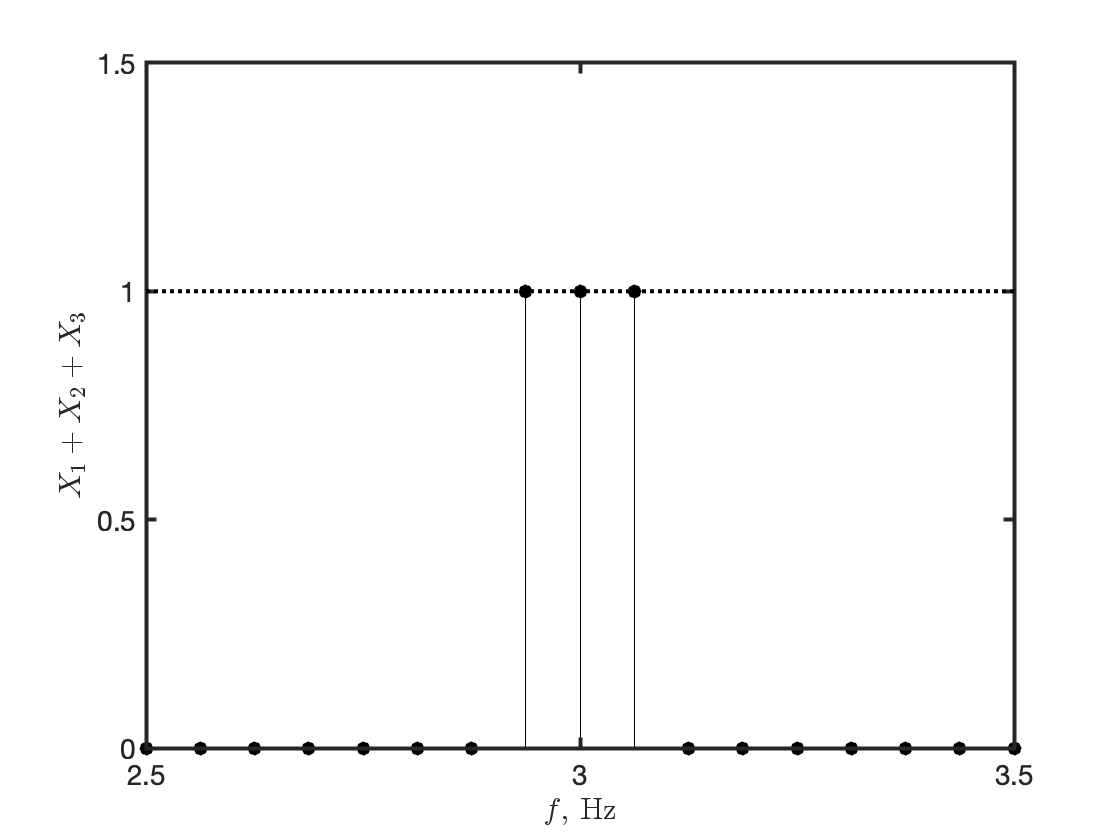
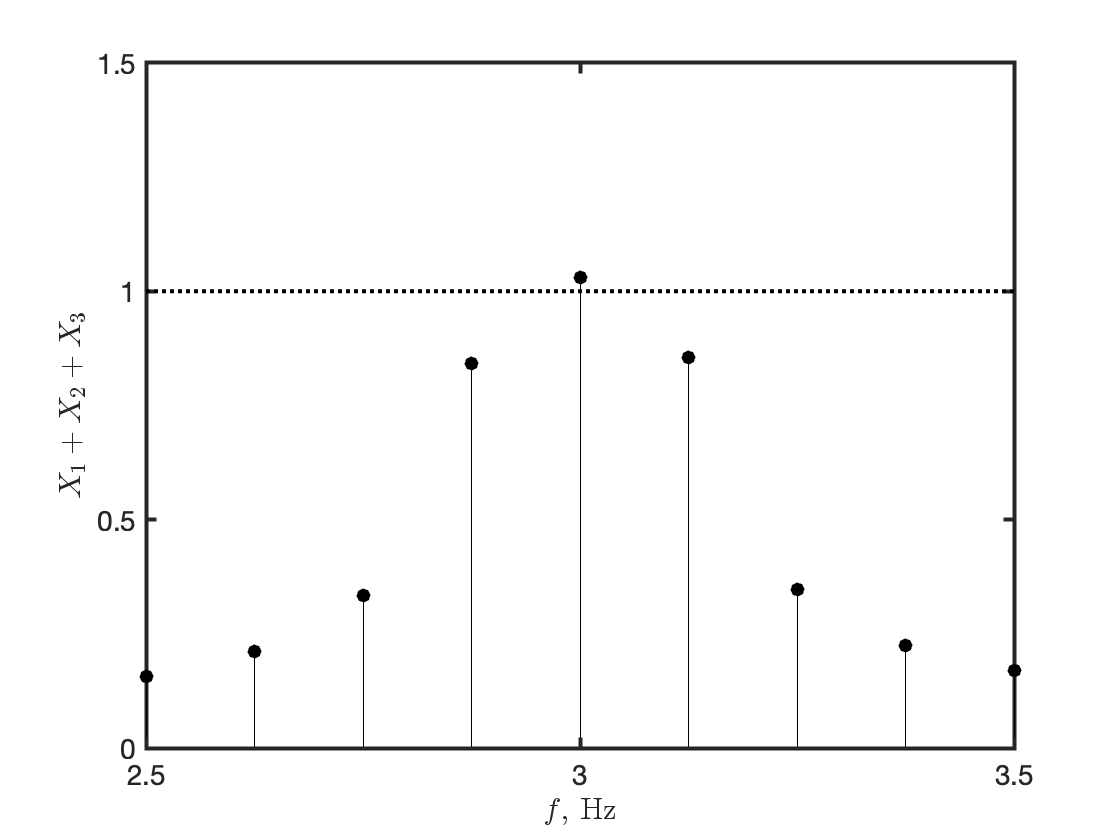
Publish site to docs/

diff --git a/docs/posts/resolution/index.html b/docs/posts/resolution/index.html
@@ -212,17 +212,17 @@ window.Quarto = {
 
 
 
-<p>Frequency resolution is the size of the smallest frequency for which details in the frequency response and the spectrum can be resolved by the estimate. For example, a resolution of 0.1 Hz means that the frequency response variations at frequency intervals at or below 0.1 Hz are not resolved. For any model developed in the course of a data analysis project, frequency resolution sets a limit in the uncertainty in the model estimate.</p>
-<p>Let us suppose to sample an analog band-limited signal <span class="math inline">\(x(t)\)</span> with bandwidth <span class="math inline">\(B\)</span> Hz with a sampling frequency <span class="math inline">\(f_s\)</span> over a total sample period <span class="math inline">\(T_r\)</span> s. Let <span class="math inline">\(T_s=1/f_s\)</span> be the sampling interval.</p>
-<p>The minimum resolvable frequency is:</p>
+<p>Frequency resolution is the size of the smallest frequency for which details in the frequency response and the spectrum can be resolved by the estimate. For example, a resolution of 0.1 Hz means that the frequency response variations at frequency intervals at or below 0.1 Hz cannot be resolved.</p>
+<p>Consider an analog band-limited signal <span class="math inline">\(x(t)\)</span> with bandwidth <span class="math inline">\(B\)</span> Hz; <span class="math inline">\(x(t)\)</span> is observed over a sample period of <span class="math inline">\(T_r\)</span> s and sampled at a sampling frequency of <span class="math inline">\(f_s\)</span> Hz (<span class="math inline">\(T_s=1/f_s\)</span> denotes the sampling interval). The total number of samples of <span class="math inline">\(x(t)\)</span> is then <span class="math inline">\(N=\lfloor T_r/T_s\rfloor\)</span>, where <span class="math inline">\(\lfloor\cdot\rfloor\)</span> denotes the floor function (or greatest integer function), namely the function that takes as input a real number <span class="math inline">\(r\)</span> and gives as output the greatest integer less than or equal to <span class="math inline">\(r\)</span>.</p>
+<p>According to the Shannon-Nyquist sampling theorem, if the sampling frequency <span class="math inline">\(f_s\)</span> is chosen to be <span class="math inline">\(2B\)</span>, the maximum resolvable frequency is:</p>
+<p><span class="math display">\[
+f_{\text{max}}=\frac{f_s}{2}
+\]</span></p>
+<p>On the other hand, the minimum resolvable frequency is inversely related to the sample period:</p>
 <p><span id="eq-eq1"><span class="math display">\[
 f_{\text{min}}=\frac{1}{T_r}=\frac{1}{NT_s}
 \tag{1}\]</span></span></p>
-<p>where <span class="math inline">\(N\)</span> is the number of samples of the signal <span class="math inline">\(x(t)\)</span>. If the sampling frequency <span class="math inline">\(f_s\)</span> is chosen to be <span class="math inline">\(2B\)</span>, the maximum resolvable frequency is:</p>
-<p><span class="math display">\[
-f_{\text{max}}=B=\frac{f_s}{2}
-\]</span></p>
-<p>Thus the number of frequencies that can be resolved from <span class="math inline">\(f_{\text{min}}\)</span> to <span class="math inline">\(f_{\text{max}}\)</span> is</p>
+<p>and hence the number of frequencies that can be resolved from <span class="math inline">\(f_{\text{min}}\)</span> to <span class="math inline">\(f_{\text{max}}\)</span> is</p>
 <p><span class="math display">\[
 N_f=\frac{f_{\text{max}}-f_{\text{min}}}{\Delta f}
 \]</span></p>
@@ -231,55 +231,39 @@ N_f=\frac{f_{\text{max}}-f_{\text{min}}}{\Delta f}
 N_f=\dfrac{\dfrac{f_s}{2}-\dfrac{f_s}{N}}{\dfrac{f_s}{N}}=\frac{N}{2}-1
 \]</span></p>
 <p>This implies that will be <span class="math inline">\(N/2\)</span> discrete frequencies from <span class="math inline">\(0\)</span> to <span class="math inline">\(f_{\text{max}}\)</span>.</p>
+<p>The accurate detection of frequency components in the spectrum <span class="math inline">\(X(f)\)</span> of the signal <span class="math inline">\(x(t)\)</span> is challenged by the phenomenon known as <strong>amplitude ambiguity</strong>; it consists of ambiguous and false amplitudes occurring in <span class="math inline">\(X(f)\)</span> whenever the sample period <span class="math inline">\(T_r\)</span> is not an integer multiple of <em>all</em> of the contributory periods in <span class="math inline">\(x(t)\)</span>. That is, false or ambiguous amplitudes will occur at frequencies that are immediately adjacent to the actual frequency.</p>
+<p>For aperiodic signals, <span class="math inline">\(T_r\)</span> theoretically must be infinite. For periodic signals, <span class="math inline">\(T_r\)</span> must be equal to the least common integer multiple of all the periods contained in the signal. When this condition cannot be fulfilled, windowing is the elective method to minimize the effect of amplitude ambiguity (not used herein). Application of the DFT (Discrete Fourier Transform) or FFT (Fast Fourier Transform) to an aperiodic signal implicitly assumes that the signal is infinite in length and formed by repeating the signal of length <span class="math inline">\(T_r\)</span> an infinite number of times. This leads to discontinuities in the amplitude that occur at each integer multiple of <span class="math inline">\(T_r\)</span>. These discontinuities are step-like, which introduce false amplitudes that decrease around the main frequencies.</p>
 <div class="callout callout-style-default callout-tip callout-titled">
 <div class="callout-header d-flex align-content-center">
 <div class="callout-icon-container">
 <i class="callout-icon"></i>
 </div>
 <div class="callout-title-container flex-fill">
-Reminder
+Can discrete-time sinusoids be non-periodic?
 </div>
 </div>
 <div class="callout-body-container callout-body">
-<p>The frequency, <span class="math inline">\(f\)</span> in cycles per sample of a <strong>discrete-time sinusoidal signal</strong> is restricted to values in the interval <span class="math inline">\(-1/2\leq f\leq1/2\)</span>. This is because any sequence resulting from a sinusoidal signal with frequency <span class="math inline">\(\vert f\vert&gt;1/2\)</span> comes to be identical to the sequence obtained from a sinusoidal signal with frequency <span class="math inline">\(f_0:f=f_0+m,\vert f_0\vert\leq1/2\)</span>:</p>
+<p>The normalized frequency <span class="math inline">\(f\)</span> in cycles per sample of a <strong>discrete-time sinusoid</strong>:</p>
+<p><span class="math display">\[
+x[n]=\cos(2\pi fn)
+\]</span></p>
+<p>is restricted to values in the interval <span class="math inline">\(-1/2\leq f\leq1/2\)</span>. This is because, for any discrete-time sinusoid with frequency <span class="math inline">\(\vert f\vert&gt;1/2\)</span>, an integer <span class="math inline">\(m\)</span> exists such that <span class="math inline">\(f=f_0+m\)</span> and <span class="math inline">\(\vert f_0\vert\leq1/2\)</span>:</p>
 <p><span class="math display">\[
 \cos 2\pi fn=\cos[2\pi (f_0+m)\,n]=\cos(2\pi f_0n)+\cos(2\pi mn)=\cos(2\pi f_0n)
 \]</span></p>
-<p>The highest rate of oscillation of sinusoidal signals is <span class="math inline">\(f_0=1/2\)</span>:</p>
+<p>It is worth noting that the highest rate of oscillation of discrete-time sinusoids is when, at every time instant, the output sample flips with respect to the previous one:</p>
 <p><span class="math display">\[
-\cos(2\pi f_0n)=\cos\left(2\pi\frac{1}{2}n\right)=\cos(\pi n)=(-1)^n
+f_0=\frac{1}{2}\rightarrow\cos(2\pi f_0n)=\cos(\pi n)=(-1)^n
 \]</span></p>
-<p>This is indeed the sequence with the highest conceivable rate of change: at every time instant, the output sample flips with respect to the previous one.</p>
-<p>A sinusoidal signal is periodic if its frequency is expressed as a rational number; a complex signal arising from the additive combination of periodical sinusoidal signals is periodic with period equal to the least common integer multiple of their periods.</p>
+<p>Moreover, a discrete-time sinusoid is periodic if its frequency can be expressed in terms of a rational number; an additive mixture of periodical discrete-time sinusoids (called here <strong>sinusoidal mixture</strong>) is periodic with period equal to the least common integer multiple of their periods.</p>
 </div>
 </div>
-<p>The phenomenon of <strong>amplitude ambiguity</strong> consists in ambiguous and false amplitudes occurring in the spectrum of <span class="math inline">\(x(t)\)</span> whenever the total sample period <span class="math inline">\(T_r\)</span> (the record time) is not an integer multiple of <em>all</em> of the signal’s contributory periods. That is, false or ambiguous amplitudes will occur at frequencies that are immediately adjacent to the actual frequency and spill from it somehow in its neighborhood.</p>
-<p>For aperiodic signals, <span class="math inline">\(T_r\)</span> theoretically must be infinite. For complex periodic signals, <span class="math inline">\(T_r\)</span> must be equal to the least common integer multiple of all the periods contained in the signal. When this condition cannot be fulfilled, windowing is the elective method to minimize the effect of amplitude ambiguity (not used herein). Application of the DFT or FFT to an aperiodic signal implicitly assumes that the signal is infinite in length and formed by repeating the signal of length <span class="math inline">\(T_r\)</span> an infinite number of times. This leads to discontinuities in the amplitude that occur at each integer multiple of <span class="math inline">\(T_r\)</span>. These discontinuities are step-like, which introduce false amplitudes that decrease around the main frequencies.</p>
-<p>As outlined above, the amplitude of a simple or complex periodic waveforms will be accurately represented in the DFT when <span class="math inline">\(f_s&gt;2f_{\text{max}}\)</span> and <span class="math inline">\(T_r = mT\)</span>, where <span class="math inline">\(m=1,2,\cdots\)</span>. <span class="math inline">\(T\)</span> is the fundamental period (<span class="math inline">\(T=1/f\)</span>). This implies that <span class="math inline">\(N=mf_s/f\)</span>. If <span class="math inline">\(T_r\)</span> is not an integer multiple of <span class="math inline">\(T\)</span>, leakage will occur in the DFT. This appears as amplitudes at <span class="math inline">\(f\)</span> spilling over into other adjacent frequencies.</p>
-<p>The method of spectral analysis based on using the FFT algorithm is summarized below.</p>
-<div class="callout callout-style-default callout-note callout-titled">
-<div class="callout-header d-flex align-content-center">
-<div class="callout-icon-container">
-<i class="callout-icon"></i>
-</div>
-<div class="callout-title-container flex-fill">
-Method of spectral analysis
-</div>
-</div>
-<div class="callout-body-container callout-body">
-<ol type="1">
-<li><p>Convert the fft spectrum Y of a signal X to the single-sided amplitude spectrum. Because the fft function includes a scaling factor N between the original and the transformed signals, rescale Y by dividing by N.</p></li>
-<li><p>Take the complex magnitude of the fft spectrum. The two-sided amplitude spectrum P2, where the spectrum in the positive frequencies is the complex conjugate of the spectrum in the negative frequencies, has half the peak amplitudes of the time-domain signal.</p></li>
-<li><p>To convert to the single-sided spectrum, take the first half of the two-sided spectrum P2. Multiply the spectrum in the positive frequencies by 2. You do not need to multiply P1(1) and P1(end) by 2 because these amplitudes correspond to the zero and Nyquist frequencies, respectively, and they do not have the complex conjugate pairs in the negative frequencies.</p></li>
-<li><p>Define the frequency domain f for the single-sided spectrum.</p></li>
-</ol>
-</div>
-</div>
-<p>As an example, consider a signal expected to have three frequency peaks at 2.875 Hz, 3 Hz, 3.125 Hz (three sinusoidal signals with amplitude one). The sampling frequency is <span class="math inline">\(f_s=16\)</span> Hz and the sample period is <span class="math inline">\(T=8\)</span> s (<span class="math inline">\(N=128\)</span>). The component at 2.875 Hz is observed exactly for 23 periods, the component at 3 Hz for 24 periods, and the component at 3.125 Hz for 25 periods. The resolution calculated according to <a href="#eq-eq1" class="quarto-xref">Equation&nbsp;1</a> is 0.125 Hz.</p>
-<p>The following code chunk implements the method of spectral analysis in MATLAB.</p>
-<div class="sourceCode" id="cb1"><pre class="sourceCode matlab code-with-copy"><code class="sourceCode matlab"><span id="cb1-1"><a href="#cb1-1" aria-hidden="true" tabindex="-1"></a><span class="co">% *****************</span></span>
-<span id="cb1-2"><a href="#cb1-2" aria-hidden="true" tabindex="-1"></a><span class="co">% signal generation</span></span>
-<span id="cb1-3"><a href="#cb1-3" aria-hidden="true" tabindex="-1"></a><span class="co">% *****************</span></span>
+<p>As outlined above, a spectrum line at frequency <span class="math inline">\(f\)</span> will be accurately represented by the DFT when <span class="math inline">\(f_s&gt;2f_{\text{max}}\)</span> and <span class="math inline">\(T_r = mT\)</span>, where <span class="math inline">\(m=1,2,\cdots\)</span>, and <span class="math inline">\(T=1/f\)</span>. This implies that <span class="math inline">\(N=mf_s/f\)</span>. If <span class="math inline">\(T_r\)</span> is not an integer multiple of <span class="math inline">\(T\)</span>, leakage will occur in the DFT. This appears as amplitudes at <span class="math inline">\(f\)</span> spilling onto adjacent frequencies.</p>
+<p>As an example, consider a sinusoidal mixture with three unit-amplitude components at 2.875 Hz, 3 Hz, 3.125 Hz. The sampling frequency is set to <span class="math inline">\(f_s=16\)</span> Hz and the sample period to <span class="math inline">\(T=8\)</span> s (<span class="math inline">\(N=128\)</span>): the component at 2.875 Hz is observed for 23 periods, the component at 3 Hz for 24 periods, and the component at 3.125 Hz for 25 periods. The resolution calculated according to <a href="#eq-eq1" class="quarto-xref">Equation&nbsp;1</a> is 0.125 Hz.</p>
+<p>A chunk of code written in MATLAB (Natick, Massachusetts: The MathWorks, Inc., <a href="https://www.mathworks.com" class="uri">https://www.mathworks.com</a>) shows how to simulate the sinusoidal mixture and perform spectral analysis.</p>
+<div class="sourceCode" id="cb1"><pre class="sourceCode matlab code-with-copy"><code class="sourceCode matlab"><span id="cb1-1"><a href="#cb1-1" aria-hidden="true" tabindex="-1"></a><span class="co">% *****************************</span></span>
+<span id="cb1-2"><a href="#cb1-2" aria-hidden="true" tabindex="-1"></a><span class="co">% sinusoidal mixture generation</span></span>
+<span id="cb1-3"><a href="#cb1-3" aria-hidden="true" tabindex="-1"></a><span class="co">% *****************************</span></span>
 <span id="cb1-4"><a href="#cb1-4" aria-hidden="true" tabindex="-1"></a></span>
 <span id="cb1-5"><a href="#cb1-5" aria-hidden="true" tabindex="-1"></a><span class="va">fs</span> <span class="op">=</span> <span class="fl">16</span><span class="op">;</span>   <span class="co">% sampling frequency, Hz</span></span>
 <span id="cb1-6"><a href="#cb1-6" aria-hidden="true" tabindex="-1"></a><span class="va">Ts</span> <span class="op">=</span> <span class="fl">1</span><span class="op">/</span><span class="va">fs</span><span class="op">;</span> <span class="co">% sampling interval, s</span></span>
@@ -295,53 +279,71 @@ Method of spectral analysis
 <span id="cb1-16"><a href="#cb1-16" aria-hidden="true" tabindex="-1"></a><span class="va">x1</span> <span class="op">=</span> <span class="va">cos</span>(<span class="va">t</span><span class="op">.*</span>(<span class="fl">2</span><span class="op">*</span><span class="va">pi</span><span class="op">*</span><span class="va">f1</span>))<span class="op">;</span> <span class="co">% sinusoid 1</span></span>
 <span id="cb1-17"><a href="#cb1-17" aria-hidden="true" tabindex="-1"></a><span class="va">x2</span> <span class="op">=</span> <span class="va">cos</span>(<span class="va">t</span><span class="op">.*</span>(<span class="fl">2</span><span class="op">*</span><span class="va">pi</span><span class="op">*</span><span class="va">f2</span>))<span class="op">;</span> <span class="co">% sinusoid 2</span></span>
 <span id="cb1-18"><a href="#cb1-18" aria-hidden="true" tabindex="-1"></a><span class="va">x3</span> <span class="op">=</span> <span class="va">cos</span>(<span class="va">t</span><span class="op">.*</span>(<span class="fl">2</span><span class="op">*</span><span class="va">pi</span><span class="op">*</span><span class="va">f3</span>))<span class="op">;</span> <span class="co">% sinusoid 3</span></span>
-<span id="cb1-19"><a href="#cb1-19" aria-hidden="true" tabindex="-1"></a><span class="va">x4</span> <span class="op">=</span> <span class="va">x1</span> <span class="op">+</span> <span class="va">x2</span> <span class="op">+</span> <span class="va">x3</span><span class="op">;</span>      <span class="co">% additive combination</span></span>
-<span id="cb1-20"><a href="#cb1-20" aria-hidden="true" tabindex="-1"></a><span class="va">X</span>  <span class="op">=</span> [<span class="va">x1</span><span class="op">;</span> <span class="va">x2</span><span class="op">;</span> <span class="va">x3</span><span class="op">;</span> <span class="va">x4</span>]<span class="op">;</span></span>
-<span id="cb1-21"><a href="#cb1-21" aria-hidden="true" tabindex="-1"></a></span>
-<span id="cb1-22"><a href="#cb1-22" aria-hidden="true" tabindex="-1"></a><span class="co">% ***********************************</span></span>
-<span id="cb1-23"><a href="#cb1-23" aria-hidden="true" tabindex="-1"></a><span class="co">% calculation of single-side spectrum</span></span>
-<span id="cb1-24"><a href="#cb1-24" aria-hidden="true" tabindex="-1"></a><span class="co">% ***********************************</span></span>
-<span id="cb1-25"><a href="#cb1-25" aria-hidden="true" tabindex="-1"></a></span>
-<span id="cb1-26"><a href="#cb1-26" aria-hidden="true" tabindex="-1"></a><span class="va">P</span>              <span class="op">=</span> <span class="va">fft</span>(<span class="va">X</span><span class="op">,</span> <span class="va">N</span>)<span class="op">;</span>         <span class="co">% FFT calculation</span></span>
-<span id="cb1-27"><a href="#cb1-27" aria-hidden="true" tabindex="-1"></a><span class="va">P2</span>             <span class="op">=</span> <span class="va">abs</span>(<span class="va">P</span><span class="op">/</span><span class="va">N</span>)<span class="op">;</span>          <span class="co">% scaling by N     </span></span>
-<span id="cb1-28"><a href="#cb1-28" aria-hidden="true" tabindex="-1"></a><span class="va">P1</span>             <span class="op">=</span> <span class="va">P2</span>(<span class="op">:,</span> <span class="fl">1</span><span class="op">:</span><span class="va">N</span><span class="op">/</span><span class="fl">2</span><span class="op">+</span><span class="fl">1</span>)<span class="op">;</span>  </span>
-<span id="cb1-29"><a href="#cb1-29" aria-hidden="true" tabindex="-1"></a><span class="va">P1</span>(<span class="op">:,</span> <span class="fl">2</span><span class="op">:</span><span class="kw">end</span><span class="op">-</span><span class="fl">1</span>) <span class="op">=</span> <span class="fl">2</span><span class="op">*</span><span class="va">P1</span>(<span class="op">:,</span> <span class="fl">2</span><span class="op">:</span><span class="kw">end</span><span class="op">-</span><span class="fl">1</span>)<span class="op">;</span> </span>
-<span id="cb1-30"><a href="#cb1-30" aria-hidden="true" tabindex="-1"></a><span class="va">Y</span>              <span class="op">=</span> <span class="va">P1</span>(<span class="op">:,</span> <span class="fl">1</span><span class="op">:</span><span class="kw">end</span><span class="op">-</span><span class="fl">1</span>)<span class="op">;</span>    <span class="co">% single-side spectrum</span></span>
-<span id="cb1-31"><a href="#cb1-31" aria-hidden="true" tabindex="-1"></a><span class="va">f</span>              <span class="op">=</span> (<span class="fl">0</span><span class="op">:</span><span class="va">N</span><span class="op">/</span><span class="fl">2</span><span class="op">-</span><span class="fl">1</span>)<span class="op">.*</span>(<span class="va">fs</span><span class="op">/</span><span class="va">N</span>)<span class="op">;</span> <span class="co">% frequency domain, Hz</span></span></code><button title="Copy to Clipboard" class="code-copy-button"><i class="bi"></i></button></pre></div>
-<p>The single-sided spectrum of the signal is shown in <a href="#fig-fig1" class="quarto-xref">Figure&nbsp;1</a>.</p>
+<span id="cb1-19"><a href="#cb1-19" aria-hidden="true" tabindex="-1"></a><span class="va">X</span>  <span class="op">=</span> <span class="va">x1</span> <span class="op">+</span> <span class="va">x2</span> <span class="op">+</span> <span class="va">x3</span><span class="op">;</span>      <span class="co">% sinusoidal mixture</span></span>
+<span id="cb1-20"><a href="#cb1-20" aria-hidden="true" tabindex="-1"></a></span>
+<span id="cb1-21"><a href="#cb1-21" aria-hidden="true" tabindex="-1"></a><span class="co">% ********************************************************</span></span>
+<span id="cb1-22"><a href="#cb1-22" aria-hidden="true" tabindex="-1"></a><span class="co">% calculation of single-side spectrum (see comments below)</span></span>
+<span id="cb1-23"><a href="#cb1-23" aria-hidden="true" tabindex="-1"></a><span class="co">% ********************************************************</span></span>
+<span id="cb1-24"><a href="#cb1-24" aria-hidden="true" tabindex="-1"></a></span>
+<span id="cb1-25"><a href="#cb1-25" aria-hidden="true" tabindex="-1"></a><span class="va">P</span>              <span class="op">=</span> <span class="va">fft</span>(<span class="va">X</span><span class="op">,</span> <span class="va">N</span>)<span class="op">;</span>         <span class="co">% FFT calculation</span></span>
+<span id="cb1-26"><a href="#cb1-26" aria-hidden="true" tabindex="-1"></a><span class="va">P2</span>             <span class="op">=</span> <span class="va">abs</span>(<span class="va">P</span><span class="op">/</span><span class="va">N</span>)<span class="op">;</span>          <span class="co">% double-side spectrum, rescaled by N     </span></span>
+<span id="cb1-27"><a href="#cb1-27" aria-hidden="true" tabindex="-1"></a><span class="va">P1</span>             <span class="op">=</span> <span class="va">P2</span>(<span class="fl">1</span><span class="op">:</span><span class="va">N</span><span class="op">/</span><span class="fl">2</span><span class="op">+</span><span class="fl">1</span>)<span class="op">;</span>  </span>
+<span id="cb1-28"><a href="#cb1-28" aria-hidden="true" tabindex="-1"></a><span class="va">P1</span>(<span class="op">:,</span> <span class="fl">2</span><span class="op">:</span><span class="kw">end</span><span class="op">-</span><span class="fl">1</span>) <span class="op">=</span> <span class="fl">2</span><span class="op">*</span><span class="va">P1</span>(<span class="fl">2</span><span class="op">:</span><span class="kw">end</span><span class="op">-</span><span class="fl">1</span>)<span class="op">;</span> </span>
+<span id="cb1-29"><a href="#cb1-29" aria-hidden="true" tabindex="-1"></a><span class="va">Y</span>              <span class="op">=</span> <span class="va">P1</span>(<span class="fl">1</span><span class="op">:</span><span class="kw">end</span><span class="op">-</span><span class="fl">1</span>)<span class="op">;</span>       <span class="co">% single-side spectrum</span></span>
+<span id="cb1-30"><a href="#cb1-30" aria-hidden="true" tabindex="-1"></a><span class="va">f</span>              <span class="op">=</span> (<span class="fl">0</span><span class="op">:</span><span class="va">N</span><span class="op">/</span><span class="fl">2</span><span class="op">-</span><span class="fl">1</span>)<span class="op">.*</span>(<span class="va">fs</span><span class="op">/</span><span class="va">N</span>)<span class="op">;</span> <span class="co">% frequency domain, Hz</span></span></code><button title="Copy to Clipboard" class="code-copy-button"><i class="bi"></i></button></pre></div>
+<div class="callout callout-style-default callout-note callout-titled">
+<div class="callout-header d-flex align-content-center">
+<div class="callout-icon-container">
+<i class="callout-icon"></i>
+</div>
+<div class="callout-title-container flex-fill">
+Comments
+</div>
+</div>
+<div class="callout-body-container callout-body">
+<ol type="1">
+<li><p>Convert the FFT spectrum P of the signal X to the single-sided amplitude spectrum. Because the FFT function includes a scaling factor N between the original and the transformed signals, rescale P by dividing by N.</p></li>
+<li><p>Take the complex magnitude of the FFT spectrum. The two-sided amplitude spectrum P2, where the spectrum in the positive frequencies is the complex conjugate of the spectrum in the negative frequencies, has half the peak amplitudes of the time-domain signal.</p></li>
+<li><p>To convert to the single-sided spectrum, take the first half of the two-sided spectrum P2. Multiply the spectrum in the positive frequencies by 2. P1(1) and P1(end) are not multiplied by 2 because these amplitudes correspond to the zero and Nyquist frequencies, respectively, and they do not have the complex conjugate pairs in the negative frequencies.</p></li>
+<li><p>Define the frequency domain f for the single-side spectrum Y.</p></li>
+</ol>
+</div>
+</div>
+<p>The single-sided spectrum of the sinusoidal mixture is shown in <a href="#fig-fig1" class="quarto-xref">Figure&nbsp;1</a>.</p>
 <div id="fig-fig1" class="quarto-figure quarto-figure-center quarto-float anchored" data-fig-align="center">
 <figure class="quarto-float quarto-float-fig figure">
 <div aria-describedby="fig-fig1-caption-0ceaefa1-69ba-4598-a22c-09a6ac19f8ca">
 <img src="spectrum.png" class="img-fluid quarto-figure quarto-figure-center figure-img" width="400">
 </div>
 <figcaption class="quarto-float-caption-bottom quarto-float-caption quarto-float-fig" id="fig-fig1-caption-0ceaefa1-69ba-4598-a22c-09a6ac19f8ca">
-Figure&nbsp;1: Single-sided spectrum of the periodic signal composed of three components at 2.875 Hz, 3 Hz, 3.125 Hz; sample period: 8 s. For the sake of visualization the frequency interval shown is limited to 2.5-3.5 Hz.
+Figure&nbsp;1: Single-sided spectrum of the sinusoidal mixture composed of three components at 2.875 Hz, 3 Hz, 3.125 Hz; sampling frequency: 16 Hz; sample period: 8 s. For the sake of visualization the frequency interval shown is limited to 2.5-3.5 Hz.
 </figcaption>
 </figure>
 </div>
-<p>On the other hand, if the signal is expected to have three frequency peaks at 2.9375 Hz, 3 Hz, 3.0625 Hz, we should need a frequency resolution of 0.0625 Hz, hence a time period <span class="math inline">\(T_r=16\)</span> s for avoiding amplitude ambiguity, which corresponds to <span class="math inline">\(N=256\)</span> samples, see <a href="#fig-fig3" class="quarto-xref">Figure&nbsp;3</a>. On the other hand, without any adjustment in the sample period, the phenomenon of amplitude ambiguity prevents us from faithfully detecting the three signal components, see <a href="#fig-fig2" class="quarto-xref">Figure&nbsp;2</a>.</p>
+<p>Consider now the case that the three components of the sinusoidal mixture have frequencies 2.9375 Hz, 3 Hz, 3.0625 Hz. To resolve them, we would need to double the frequency resolution of the FFT, with respect to the scenario of <a href="#fig-fig1" class="quarto-xref">Figure&nbsp;1</a>. Erroneously, I may try to double the sampling frequency, <a href="#fig-fig2" class="quarto-xref">Figure&nbsp;2</a>: this expedient leaves unaltered the frequency resolution.</p>
 <div id="fig-fig2" class="quarto-figure quarto-figure-center quarto-float anchored" data-fig-align="center">
 <figure class="quarto-float quarto-float-fig figure">
 <div aria-describedby="fig-fig2-caption-0ceaefa1-69ba-4598-a22c-09a6ac19f8ca">
-<img src="spectrum2.png" class="img-fluid quarto-figure quarto-figure-center figure-img" width="400">
+<img src="spectrum1.png" class="img-fluid quarto-figure quarto-figure-center figure-img" width="400">
 </div>
 <figcaption class="quarto-float-caption-bottom quarto-float-caption quarto-float-fig" id="fig-fig2-caption-0ceaefa1-69ba-4598-a22c-09a6ac19f8ca">
-Figure&nbsp;2: Single-sided spectrum of the periodic signal composed of three components at 2.9375 Hz, 3 Hz, 3.0625 Hz; sample period: 8 s.
+Figure&nbsp;2: Single-sided spectrum of the sinusoidal mixture composed of three components at 2.9375 Hz, 3 Hz, 3.0625 Hz; sampling frequency: 32 Hz; sample period: 8 s.
 </figcaption>
 </figure>
 </div>
+<p>To resolve the components of the sinusoidal mixture and avoid amplitude ambiguity, the frequency resolution of 0.0625 Hz can be achieved by extending the time period to <span class="math inline">\(T_r=16\)</span> s, which corresponds to <span class="math inline">\(N=256\)</span> samples at the original sampling frequency <span class="math inline">\(f_s=16\)</span> Hz, see <a href="#fig-fig3" class="quarto-xref">Figure&nbsp;3</a>.</p>
 <div id="fig-fig3" class="quarto-figure quarto-figure-center quarto-float anchored" data-fig-align="center">
 <figure class="quarto-float quarto-float-fig figure">
 <div aria-describedby="fig-fig3-caption-0ceaefa1-69ba-4598-a22c-09a6ac19f8ca">
-<img src="spectrum1.png" class="img-fluid quarto-figure quarto-figure-center figure-img" width="400">
+<img src="spectrum2.png" class="img-fluid quarto-figure quarto-figure-center figure-img" width="400">
 </div>
 <figcaption class="quarto-float-caption-bottom quarto-float-caption quarto-float-fig" id="fig-fig3-caption-0ceaefa1-69ba-4598-a22c-09a6ac19f8ca">
-Figure&nbsp;3: Single-sided spectrum of the periodic signal composed of three components at 2.9375 Hz, 3 Hz, 3.0625 Hz; sample period: 16 s.
+Figure&nbsp;3: Single-sided spectrum of the sinusoidal mixture composed of three components at 2.9375 Hz, 3 Hz, 3.0625 Hz; sampling frequency: 16 Hz; sample period: 16 s.
 </figcaption>
 </figure>
 </div>
 <blockquote class="blockquote">
-<p>To conclude: whereas the sampling frequency sets the time resolution of the spectral analysis, the sample period occupies a central place in setting its frequency resolution. The sample period being the same, just increasing the sampling frequency simply increases the number of samples by the same ratio, leaving their ratio unaltered. The only way to increase the frequency resolution is to increase the sample period.</p>
+<p>To conclude: whereas the sampling frequency sets the time resolution, the sample period occupies a central place in setting the frequency resolution when spectral analysis is performed. The sample period being the same, just increasing the sampling frequency simply increases the number of samples by the same ratio, leaving their ratio unaltered. The only way to increase the frequency resolution is to increase the sample period.</p>
 </blockquote>
 
 

diff --git a/docs/index.html b/docs/index.html
@@ -200,7 +200,7 @@ window.Quarto = {
 
 <div class="quarto-listing quarto-listing-container-default" id="listing-listing">
 <div class="list quarto-listing-default">
-<div class="quarto-post image-right" data-index="0" data-categories="signal processing" data-listing-date-sort="1712095200000" data-listing-file-modified-sort="1712165216326" data-listing-date-modified-sort="NaN" data-listing-reading-time-sort="7" data-listing-word-count-sort="1269">
+<div class="quarto-post image-right" data-index="0" data-categories="signal processing" data-listing-date-sort="1712095200000" data-listing-file-modified-sort="1712218071664" data-listing-date-modified-sort="NaN" data-listing-reading-time-sort="7" data-listing-word-count-sort="1317">
 <div class="thumbnail">
 <p><a href="./posts/resolution/index.html" class="no-external"></a></p><a href="./posts/resolution/index.html" class="no-external">
 <p><img src="./posts/resolution/FFT-Time-Frequency-View.png" class="thumbnail-image"></p>
